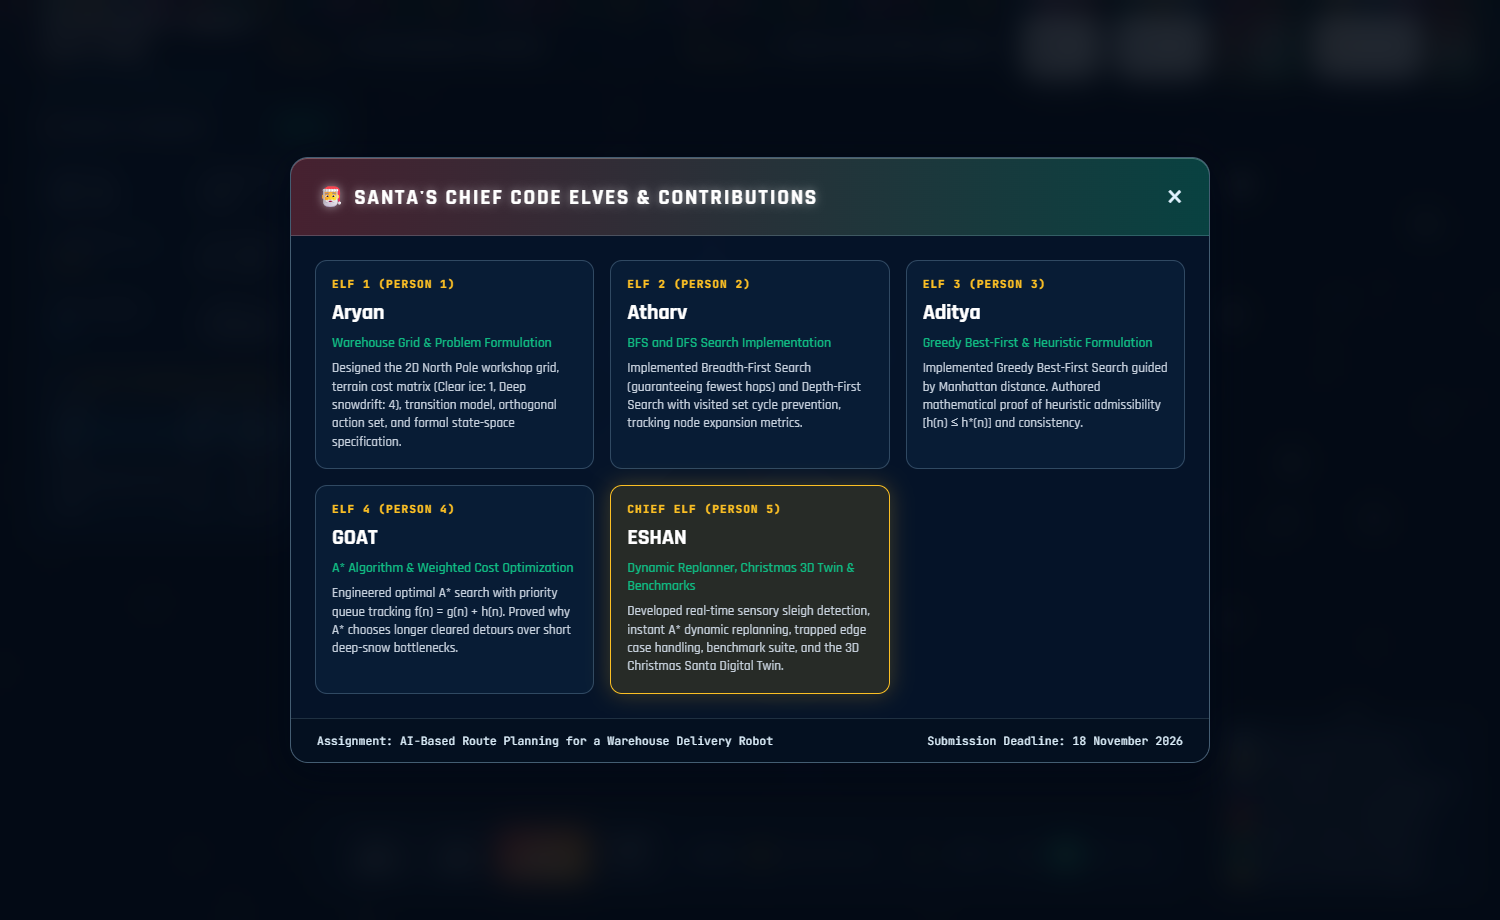
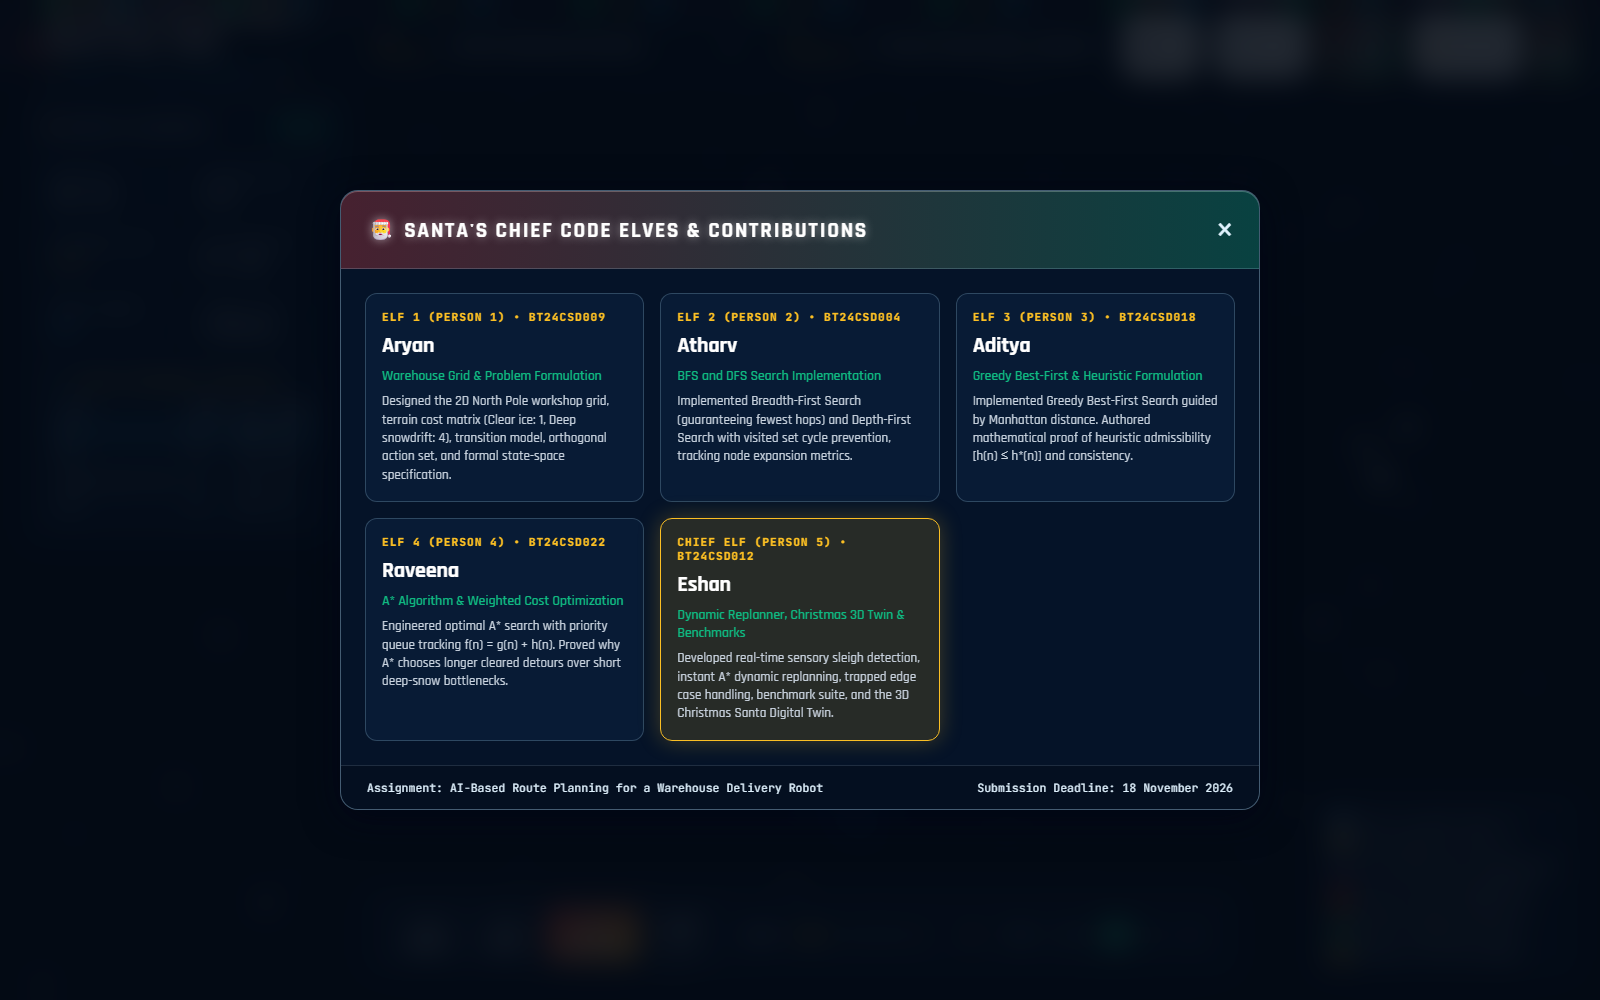
docs & code: add student roll numbers and update Person 4 to Raveena (BT24CSD022)

diff --git a/web_3d/index.html b/web_3d/index.html
@@ -199,32 +199,32 @@
       <div class="modal-body">
         <div class="roster-grid">
           <div class="roster-card frosted-inner">
-            <div class="roster-badge">ELF 1 (PERSON 1)</div>
+            <div class="roster-badge">ELF 1 (PERSON 1) &bull; BT24CSD009</div>
             <div class="roster-name">Aryan</div>
             <div class="roster-role">Warehouse Grid & Problem Formulation</div>
             <p class="roster-desc">Designed the 2D North Pole workshop grid, terrain cost matrix (Clear ice: 1, Deep snowdrift: 4), transition model, orthogonal action set, and formal state-space specification.</p>
           </div>
           <div class="roster-card frosted-inner">
-            <div class="roster-badge">ELF 2 (PERSON 2)</div>
+            <div class="roster-badge">ELF 2 (PERSON 2) &bull; BT24CSD004</div>
             <div class="roster-name">Atharv</div>
             <div class="roster-role">BFS and DFS Search Implementation</div>
             <p class="roster-desc">Implemented Breadth-First Search (guaranteeing fewest hops) and Depth-First Search with visited set cycle prevention, tracking node expansion metrics.</p>
           </div>
           <div class="roster-card frosted-inner">
-            <div class="roster-badge">ELF 3 (PERSON 3)</div>
+            <div class="roster-badge">ELF 3 (PERSON 3) &bull; BT24CSD018</div>
             <div class="roster-name">Aditya</div>
             <div class="roster-role">Greedy Best-First & Heuristic Formulation</div>
             <p class="roster-desc">Implemented Greedy Best-First Search guided by Manhattan distance. Authored mathematical proof of heuristic admissibility [h(n) &le; h*(n)] and consistency.</p>
           </div>
           <div class="roster-card frosted-inner">
-            <div class="roster-badge">ELF 4 (PERSON 4)</div>
-            <div class="roster-name">GOAT</div>
+            <div class="roster-badge">ELF 4 (PERSON 4) &bull; BT24CSD022</div>
+            <div class="roster-name">Raveena</div>
             <div class="roster-role">A* Algorithm & Weighted Cost Optimization</div>
             <p class="roster-desc">Engineered optimal A* search with priority queue tracking f(n) = g(n) + h(n). Proved why A* chooses longer cleared detours over short deep-snow bottlenecks.</p>
           </div>
           <div class="roster-card frosted-inner highlighted-festive">
-            <div class="roster-badge">CHIEF ELF (PERSON 5)</div>
-            <div class="roster-name">ESHAN</div>
+            <div class="roster-badge">CHIEF ELF (PERSON 5) &bull; BT24CSD012</div>
+            <div class="roster-name">Eshan</div>
             <div class="roster-role">Dynamic Replanner, Christmas 3D Twin & Benchmarks</div>
             <p class="roster-desc">Developed real-time sensory sleigh detection, instant A* dynamic replanning, trapped edge case handling, benchmark suite, and the 3D Christmas Santa Digital Twin.</p>
           </div>

diff --git a/warehouse/algorithms.py b/warehouse/algorithms.py
@@ -2,9 +2,9 @@
 warehouse/algorithms.py
 Task 3: Search Algorithms (BFS, DFS, Greedy Best-First, A*) & Heuristic Analysis
 Authors:
-  - Person 2: Atharv (BFS and DFS implementation)
-  - Person 3: Aditya (Greedy Best-First Search & Manhattan Distance Heuristic)
-  - Person 4: GOAT   (A* Implementation & Weighted Path Cost Analysis)
+  - Person 2: Atharv  [BT24CSD004] (BFS and DFS implementation)
+  - Person 3: Aditya  [BT24CSD018] (Greedy Best-First Search & Manhattan Distance Heuristic)
+  - Person 4: Raveena [BT24CSD022] (A* Implementation & Weighted Path Cost Analysis)
 
 This module implements the four core search algorithms on the 2D warehouse grid.
 Every algorithm tracks performance metrics: goal reached, path length (moves),
@@ -48,7 +48,7 @@ class SearchResult:
 
 
 # =====================================================================
-# Heuristic Formulation (Person 3 - Aditya)
+# Heuristic Formulation (Person 3 - Aditya [BT24CSD018])
 # =====================================================================
 
 def manhattan_distance(p1: Tuple[int, int], p2: Tuple[int, int]) -> float:
@@ -81,13 +81,13 @@ def manhattan_distance(p1: Tuple[int, int], p2: Tuple[int, int]) -> float:
 
 
 # =====================================================================
-# Uninformed Search Algorithms (Person 2 - Atharv)
+# Uninformed Search Algorithms (Person 2 - Atharv [BT24CSD004])
 # =====================================================================
 
 def breadth_first_search(grid: WarehouseGrid) -> SearchResult:
     """
     Breadth-First Search (BFS)
-    Implemented by: Atharv (Person 2)
+    Implemented by: Atharv [BT24CSD004] (Person 2)
 
     Explores nodes level-by-level using a FIFO queue.
     Properties:
@@ -151,7 +151,7 @@ def breadth_first_search(grid: WarehouseGrid) -> SearchResult:
 def depth_first_search(grid: WarehouseGrid) -> SearchResult:
     """
     Depth-First Search (DFS)
-    Implemented by: Atharv (Person 2)
+    Implemented by: Atharv [BT24CSD004] (Person 2)
 
     Explores deepest nodes first using a LIFO stack.
     Properties:
@@ -215,13 +215,13 @@ def depth_first_search(grid: WarehouseGrid) -> SearchResult:
 
 
 # =====================================================================
-# Informed Heuristic Search Algorithms (Aditya & GOAT)
+# Informed Heuristic Search Algorithms (Aditya & Raveena)
 # =====================================================================
 
 def greedy_best_first_search(grid: WarehouseGrid) -> SearchResult:
     """
     Greedy Best-First Search
-    Implemented by: Aditya (Person 3)
+    Implemented by: Aditya [BT24CSD018] (Person 3)
 
     Evaluates nodes purely by heuristic value: f(n) = h(n) = Manhattan Distance.
     Properties:
@@ -292,7 +292,7 @@ def greedy_best_first_search(grid: WarehouseGrid) -> SearchResult:
 def a_star_search(grid: WarehouseGrid, start_pos: Optional[Tuple[int, int]] = None) -> SearchResult:
     """
     A* Search
-    Implemented by: GOAT (Person 4)
+    Implemented by: Raveena [BT24CSD022] (Person 4)
 
     Evaluates nodes by estimated total cost: f(n) = g(n) + h(n)
       - g(n): Cumulative path cost from start to n

diff --git a/main.py b/main.py
@@ -2,11 +2,11 @@
 main.py
 AI Warehouse Route Planning - Interactive Command-Line Interface
 Contributors:
-  - Person 1: Aryan  (Warehouse Grid & Problem Formulation)
-  - Person 2: Atharv (BFS & DFS Implementation)
-  - Person 3: Aditya (Greedy Best-First & Heuristic Formulation)
-  - Person 4: GOAT   (A* Implementation & Weighted Path Cost Analysis)
-  - Person 5: ESHAN  (Trolley Replanning, Performance Evaluation & 3D UI)
+  - Person 1: Aryan   [BT24CSD009] (Warehouse Grid & Problem Formulation)
+  - Person 2: Atharv  [BT24CSD004] (BFS & DFS Implementation)
+  - Person 3: Aditya  [BT24CSD018] (Greedy Best-First & Heuristic Formulation)
+  - Person 4: Raveena [BT24CSD022] (A* Implementation & Weighted Path Cost Analysis)
+  - Person 5: Eshan   [BT24CSD012] (Trolley Replanning, Performance Evaluation & 3D UI)
 """
 
 import sys
@@ -48,11 +48,11 @@ def print_banner():
            Autonomous Pathfinding & Dynamic Replanning
 ================================================================================
   Team Roster & Contributions:
-    [1] Aryan  - Warehouse Environment & State Space Formulation
-    [2] Atharv - BFS and DFS Graph Search Algorithms
-    [3] Aditya - Greedy Best-First Search & Manhattan Distance Admissibility
-    [4] GOAT   - A* Algorithm & Weighted Cost Optimization
-    [5] ESHAN  - Dynamic Trolley Detection, Real-Time Replanning & 3D Web UI
+    [1] Aryan   [BT24CSD009] - Warehouse Environment & State Space Formulation
+    [2] Atharv  [BT24CSD004] - BFS and DFS Graph Search Algorithms
+    [3] Aditya  [BT24CSD018] - Greedy Best-First Search & Manhattan Distance Admissibility
+    [4] Raveena [BT24CSD022] - A* Algorithm & Weighted Cost Optimization
+    [5] Eshan   [BT24CSD012] - Dynamic Trolley Detection, Real-Time Replanning & 3D Web UI
 ================================================================================
 """
     print(banner)

diff --git a/run_simulation.py b/run_simulation.py
@@ -1,7 +1,7 @@
 """
 run_simulation.py
 Automated Simulation Runner & Artifact Generator
-Author: Person 5 - ESHAN
+Author: Person 5 - Eshan [BT24CSD012]
 
 Executes the entire suite of warehouse simulations, prints formatted comparison
 tables, answers all problem statement questions, generates Matplotlib figures
@@ -39,11 +39,11 @@ def run_and_export():
     print("AI WAREHOUSE ROBOT ROUTE PLANNING - FULL SIMULATION & EVALUATION")
     print("=" * 80)
     print("Group Members & Responsibilities:")
-    print("  * Person 1: Aryan  - Warehouse Grid & Search Problem Formulation (Tasks 1 & 2)")
-    print("  * Person 2: Atharv - BFS and DFS Search Implementations (Task 3)")
-    print("  * Person 3: Aditya - Greedy Best-First Search & Manhattan Heuristic (Task 3)")
-    print("  * Person 4: GOAT   - A* Implementation & Weighted Path Cost Analysis (Task 3)")
-    print("  * Person 5: ESHAN  - Dynamic Trolley Replanning, Benchmarking & 3D UI (Tasks 4 & 5)")
+    print("  * Person 1: Aryan   [BT24CSD009] - Warehouse Grid & Search Problem Formulation (Tasks 1 & 2)")
+    print("  * Person 2: Atharv  [BT24CSD004] - BFS and DFS Search Implementations (Task 3)")
+    print("  * Person 3: Aditya  [BT24CSD018] - Greedy Best-First Search & Manhattan Heuristic (Task 3)")
+    print("  * Person 4: Raveena [BT24CSD022] - A* Implementation & Weighted Path Cost Analysis (Task 3)")
+    print("  * Person 5: Eshan   [BT24CSD012] - Dynamic Trolley Replanning, Benchmarking & 3D UI (Tasks 4 & 5)")
     print("=" * 80)
 
     figures_dir = os.path.join(os.path.dirname(__file__), "docs", "figures")

diff --git a/warehouse/__init__.py b/warehouse/__init__.py
@@ -1,11 +1,11 @@
 """
 AI Warehouse Delivery Robot - Route Planning Package
 Developed by:
-  - Person 1: Aryan  (Warehouse Grid & Problem Formulation)
-  - Person 2: Atharv (BFS & DFS Implementation)
-  - Person 3: Aditya (Greedy Best-First Search & Heuristic Formulation)
-  - Person 4: GOAT   (A* Search & Weighted Path Costs)
-  - Person 5: ESHAN  (Trolley Detection, Replanning, Benchmarking & 3D Visualization)
+  - Person 1: Aryan   [BT24CSD009] (Warehouse Grid & Problem Formulation)
+  - Person 2: Atharv  [BT24CSD004] (BFS & DFS Implementation)
+  - Person 3: Aditya  [BT24CSD018] (Greedy Best-First Search & Heuristic Formulation)
+  - Person 4: Raveena [BT24CSD022] (A* Search & Weighted Path Costs)
+  - Person 5: Eshan   [BT24CSD012] (Trolley Detection, Replanning, Benchmarking & 3D Visualization)
 """
 
 from .grid import WarehouseGrid, CellType, SearchNode

diff --git a/warehouse/visualizer.py b/warehouse/visualizer.py
@@ -1,7 +1,7 @@
 """
 warehouse/visualizer.py
 Visualizer & Figure Generator for Reports and Screenshots
-Author: Person 5 - ESHAN
+Author: Person 5 - Eshan [BT24CSD012]
 
 Generates publication-quality Matplotlib figures of warehouse search paths,
 cost-vs-length trade-offs, performance metric bar charts, and trolley replanning.

diff --git a/warehouse/grid.py b/warehouse/grid.py
@@ -1,7 +1,7 @@
 """
 warehouse/grid.py
 Task 1 & Task 2: Warehouse Environment & Problem Formulation
-Author: Person 1 - Aryan
+Author: Person 1 - Aryan [BT24CSD009]
 
 This module defines the 2D warehouse grid environment and the formal AI search
 problem formulation (State, Initial State, Actions, Transition Model, Goal Test,

diff --git a/warehouse/benchmark.py b/warehouse/benchmark.py
@@ -1,7 +1,7 @@
 """
 warehouse/benchmark.py
 Task 5: Performance Evaluation & Comparative Analysis
-Author: Person 5 - ESHAN
+Author: Person 5 - Eshan [BT24CSD012]
 
 This module conducts systematic benchmarking of BFS, DFS, Greedy Best-First,
 and A* algorithms across multiple warehouse operational scenarios.

diff --git a/warehouse/replanner.py b/warehouse/replanner.py
@@ -1,7 +1,7 @@
 """
 warehouse/replanner.py
 Task 4: Obstacle Detection & Dynamic Replanning
-Author: Person 5 - ESHAN
+Author: Person 5 - Eshan [BT24CSD012]
 
 This module simulates real-time robot navigation under uncertainty.
 The robot executes an initial A* plan. When an unmapped obstacle (Trolley)

diff --git a/README.md b/README.md
@@ -10,13 +10,13 @@
 
 ## 👥 Group Members & Division of Responsibilities
 
-| Member | Name | Primary Role & Responsibility | Core Tasks & Code Modules |
-| :---: | :---: | :--- | :--- |
-| **Person 1** | **Aryan** | **Warehouse Grid & Search Problem Formulation** | Task 1 & Task 2: Formal state space, transition model, cost matrices, ASCII grid rendering (`warehouse/grid.py`). |
-| **Person 2** | **Atharv** | **Uninformed Search Algorithms (BFS & DFS)** | Task 3 (Part 1): Breadth-First Search (shortest moves guarantee) and Depth-First Search with visited set cycle prevention (`warehouse/algorithms.py`). |
-| **Person 3** | **Aditya** | **Greedy Best-First Search & Heuristic Formulation** | Task 3 (Part 2): Greedy Best-First Search, Manhattan distance heuristic design, mathematical proofs for admissibility and consistency (`warehouse/algorithms.py`). |
-| **Person 4** | **GOAT** | **A* Search & Weighted Cost Optimization** | Task 3 (Part 3): A* priority queue graph search, cost optimization, Task 3 dilemma (short crowded vs. long cheap route) (`warehouse/algorithms.py`). |
-| **Person 5** | **ESHAN** | **Dynamic Trolley Replanner, 3D Web UI & Benchmarks** | Task 4 & Task 5: Real-time sensor scanning, A* dynamic replanning, trapped edge case, benchmark suite, Matplotlib figures, and interactive Three.js 3D Digital Twin (`warehouse/replanner.py`, `warehouse/benchmark.py`, `warehouse/visualizer.py`, `web_3d/`). |
+| Member | Name | Roll Number | Primary Role & Responsibility | Core Tasks & Code Modules |
+| :---: | :---: | :---: | :--- | :--- |
+| **Person 1** | **Aryan** | **BT24CSD009** | **Warehouse Grid & Search Problem Formulation** | Task 1 & Task 2: Formal state space, transition model, cost matrices, ASCII grid rendering (`warehouse/grid.py`). |
+| **Person 2** | **Atharv** | **BT24CSD004** | **Uninformed Search Algorithms (BFS & DFS)** | Task 3 (Part 1): Breadth-First Search (shortest moves guarantee) and Depth-First Search with visited set cycle prevention (`warehouse/algorithms.py`). |
+| **Person 3** | **Aditya** | **BT24CSD018** | **Greedy Best-First Search & Heuristic Formulation** | Task 3 (Part 2): Greedy Best-First Search, Manhattan distance heuristic design, mathematical proofs for admissibility and consistency (`warehouse/algorithms.py`). |
+| **Person 4** | **Raveena** | **BT24CSD022** | **A* Search & Weighted Cost Optimization** | Task 3 (Part 3): A* priority queue graph search, cost optimization, Task 3 dilemma (short crowded vs. long cheap route) (`warehouse/algorithms.py`). |
+| **Person 5** | **Eshan** | **BT24CSD012** | **Dynamic Trolley Replanner, 3D Web UI & Benchmarks** | Task 4 & Task 5: Real-time sensor scanning, A* dynamic replanning, trapped edge case, benchmark suite, Matplotlib figures, and interactive Three.js 3D Digital Twin (`warehouse/replanner.py`, `warehouse/benchmark.py`, `warehouse/visualizer.py`, `web_3d/`). |
 
 ---
 
@@ -269,13 +269,13 @@ Then open `http://localhost:8080` in your web browser.
 - **Q: What is the weakness of Greedy Best-First Search?**  
   *Answer:* It prioritizes nodes solely based on $h(n)$, completely ignoring accumulated cost $g(n)$. This makes it vulnerable to stepping into high-cost crowded cells or getting stuck in dead ends.
 
-### Person 4: GOAT (A* & Weighted Path Costs)
+### Person 4: Raveena (BT24CSD022) (A* & Weighted Path Costs)
 - **Q: How does A* resolve the dilemma between a short crowded route and a long cheap detour?**  
   *Answer:* A* minimizes $f(n) = g(n) + h(n)$. For the short crowded corridor, $g(n)$ accumulates $4 \times 4 = 16$. For the longer open detour, $g(n)$ accumulates $7 \times 1 = 7$. Because $7 < 16$, A* correctly chooses the longer, less costly route.
 - **Q: Why doesn't A* need to reopen closed nodes in our implementation?**  
   *Answer:* Because Manhattan distance satisfies consistency (triangle inequality $|h(n) - h(n')| \le 1.0 \le c(n, a, n')$), the first time A* expands any node, it has already found the optimal cost to that node.
 
-### Person 5: ESHAN (Dynamic Replanning, 3D Web UI & Benchmarks)
+### Person 5: Eshan (BT24CSD012) (Dynamic Replanning, 3D Web UI & Benchmarks)
 - **Q: How does the robot detect the trolley before colliding with it?**  
   *Answer:* At each step, the robot simulates a forward proximity scan of the next cell in its planned path. If the ground truth map has a trolley at that location, the robot halts, updates its internal map, and triggers A* from its current coordinates.
 - **Q: What happens if the trolley leaves no alternative path to the goal?**  
@@ -297,13 +297,13 @@ Then open `http://localhost:8080` in your web browser.
 > - **GitHub Repository:** `https://github.com/AryanKarmore/santas-warehouse-of-wonders`  
 >  
 > **Member Roster & Contributions:**  
-> 1. **Aryan** — Warehouse Environment & Problem Formulation (Tasks 1 & 2)  
-> 2. **Atharv** — BFS & DFS Graph Search Implementation (Task 3)  
-> 3. **Aditya** — Greedy Best-First Search & Manhattan Distance Heuristic Proof (Task 3)  
-> 4. **GOAT** — A* Search & Weighted Path Cost Analysis (Task 3)  
-> 5. **ESHAN** (Group Representative) — Trolley Replanning, Benchmarking, Performance Evaluation & Three.js 3D Digital Twin (Tasks 4 & 5)  
+> 1. **Aryan (BT24CSD009)** — Warehouse Environment & Problem Formulation (Tasks 1 & 2)  
+> 2. **Atharv (BT24CSD004)** — BFS & DFS Graph Search Implementation (Task 3)  
+> 3. **Aditya (BT24CSD018)** — Greedy Best-First Search & Manhattan Distance Heuristic Proof (Task 3)  
+> 4. **Raveena (BT24CSD022)** — A* Search & Weighted Path Cost Analysis (Task 3)  
+> 5. **Eshan (BT24CSD012)** (Group Representative) — Trolley Replanning, Benchmarking, Performance Evaluation & Three.js 3D Digital Twin (Tasks 4 & 5)  
 >  
 > All source code, automated test suites, Matplotlib figures, and the interactive Three.js 3D Digital Twin are included in the repository.  
 >  
 > Sincerely,  
-> Group XX Representative (ESHAN)
+> Group XX Representative (Eshan)
